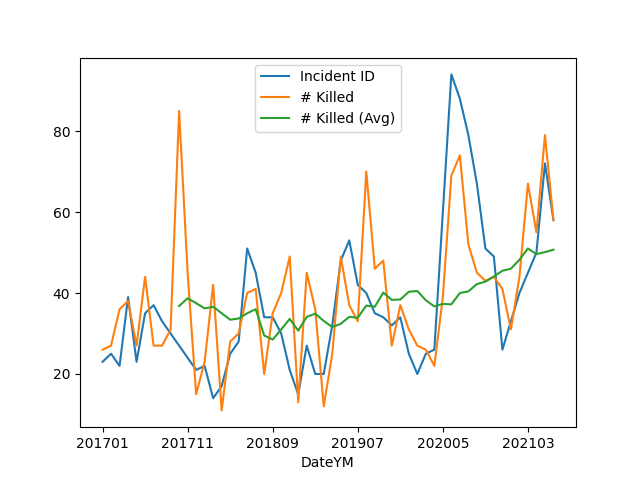
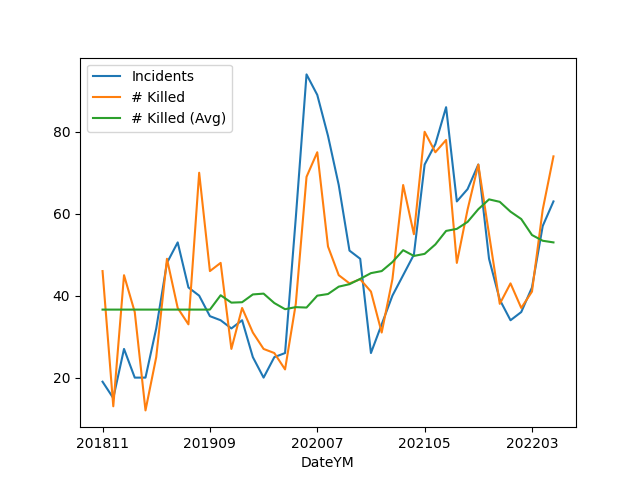
--

diff --git a/en/2019/05/confstats.md b/en/2019/05/confstats.md
@@ -147,26 +147,28 @@ see data for "mass shootings - all years". Plot is monthly incidents and deaths.
 
 ```python
 import pandas as pd, zipfile
-with zipfile.ZipFile('mass-shooting-us.zip', 'r') as z:
-      df =  pd.read_csv(z.open('USmassshooting.csv'))
-
+pd.set_option('display.max_columns', None)
+df =  pd.read_csv('us-mass-shootings.csv')
 df['Date'] = df.apply(lambda x: pd.to_datetime(x['Incident Date']), axis=1)
+df = df[df.Date < '2022-06-01']
 df['DateYM'] = df.apply(lambda x: "%d%02d" % (x['Date'].year, x['Date'].month), axis=1)
 g = df.groupby('DateYM').agg({'Incident ID':'count', '# Killed': 'sum'})
 g['# Killed (Avg)'] = g['# Killed'].rolling(10).mean()
-print (g[['# Killed','# Killed (Avg)']].tail(5))
+g = g.interpolate(limit_direction='both')
+g = g.rename(columns={"Incident ID": "Incidents"})
+print (g.tail(5))
 g.plot()
 plt.savefig('gunvio.png')
 ```
 
 ```text
-        # Killed  # Killed (Avg)
-DateYM                          
-202102        44            48.2
-202103        67            51.0
-202104        55            49.6
-202105        79            50.1
-202106        58            50.7
+        Incidents  # Killed  # Killed (Avg)
+DateYM                                     
+202201  34         43        60.5          
+202202  36         37        58.7          
+202203  42         41        54.8          
+202204  57         61        53.4          
+202205  63         74        53.0          
 ```
 
 ![](gunvio.png)
